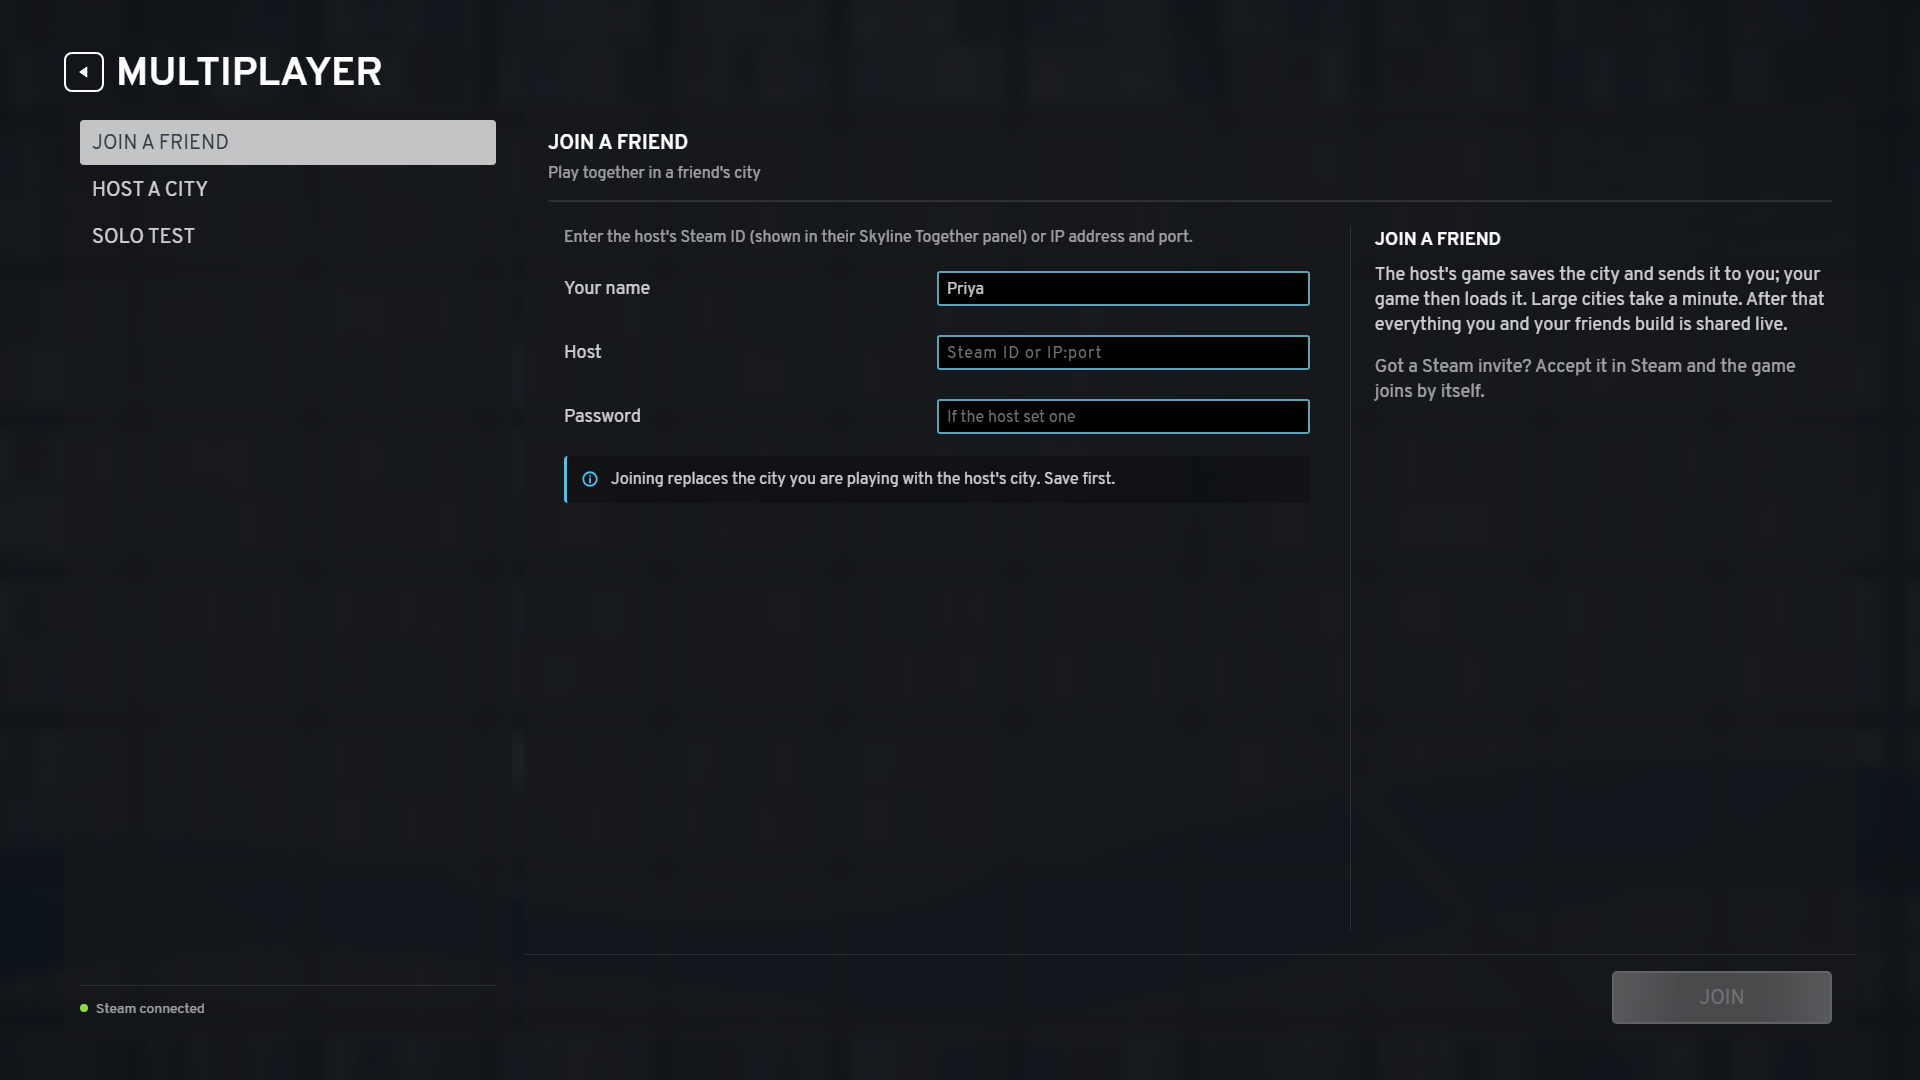
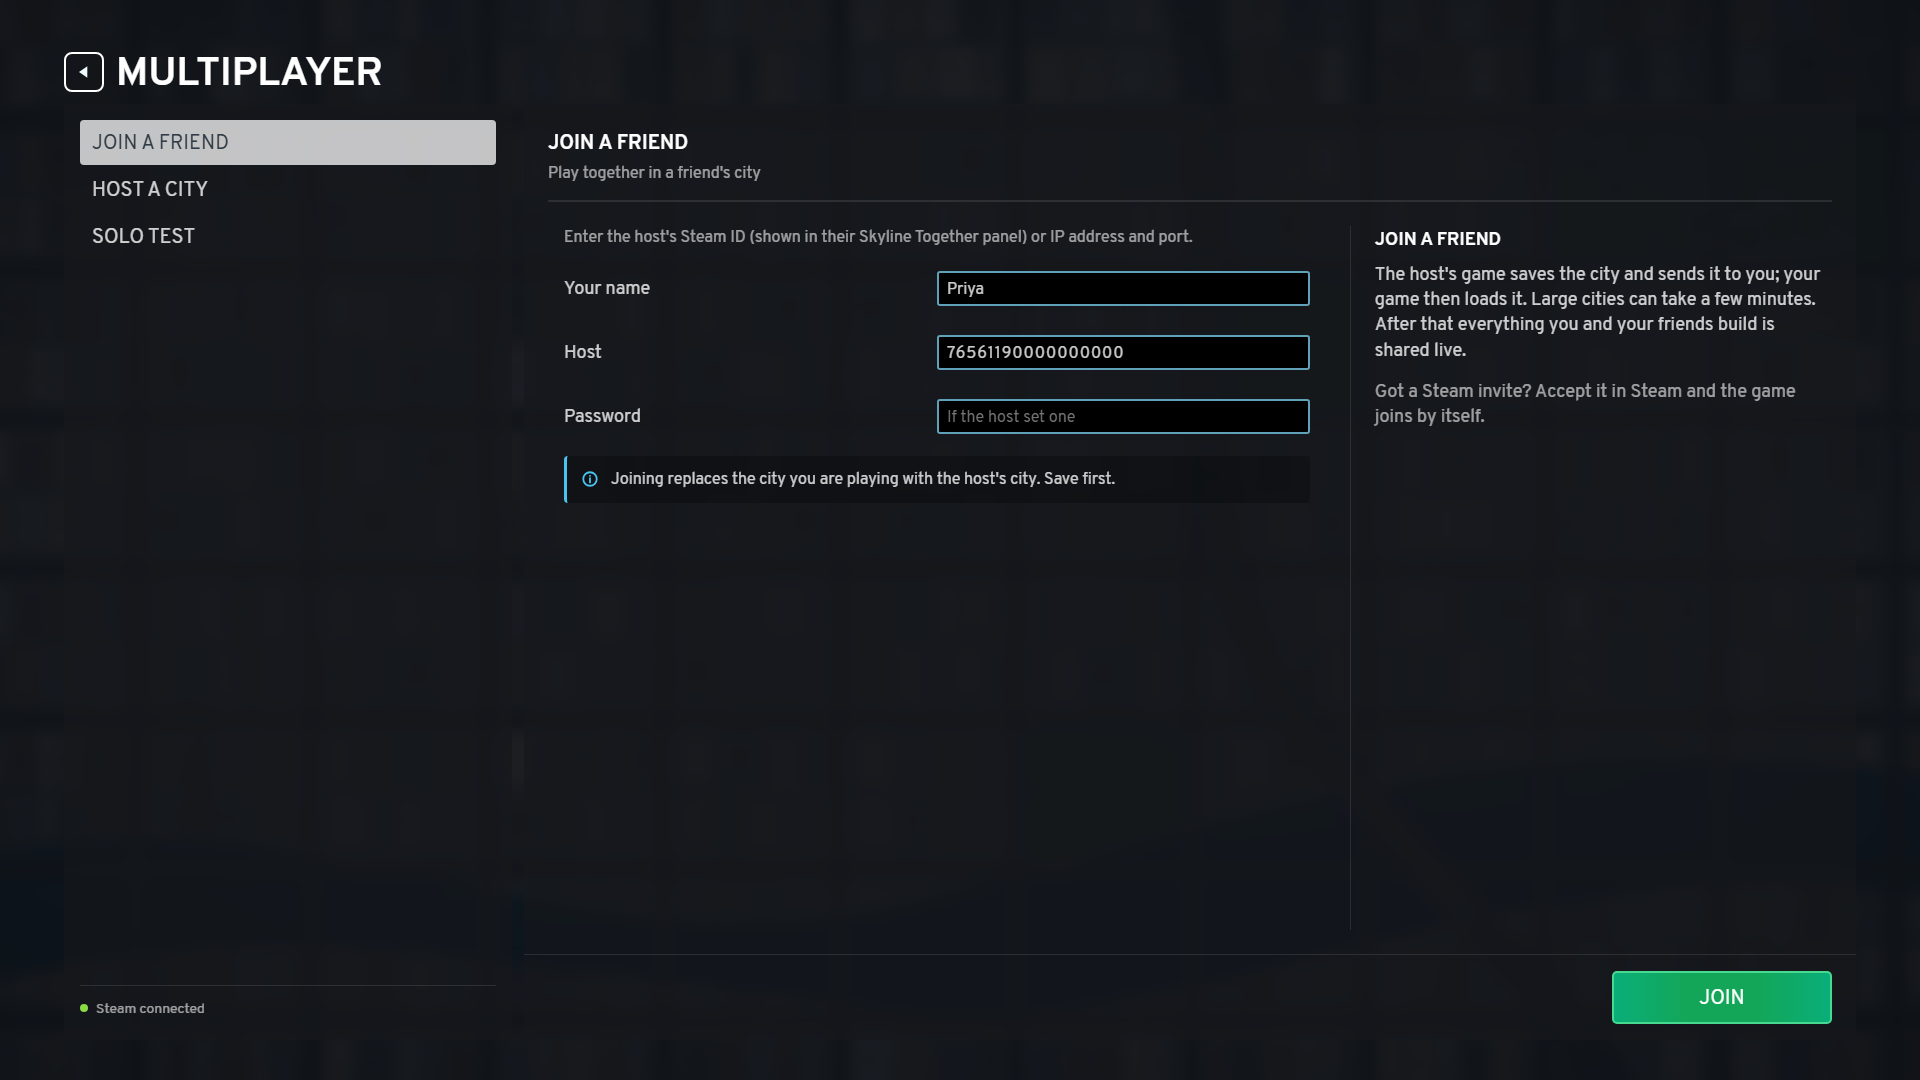
Paradox Mods images: the join page ready to join, no leftover panel, the mods screen
02: the Host field holds the placeholder Steam ID, so "Join" is enabled, and the side text reads "Large
cities can take a few minutes" like the join overlay. 03: the panel behind the join overlay is closed
(ui_smoke.mjs takes a per-state snapshotStore for the HTML snapshots). New 04-mods.png: the screen for
different mods with what to enable, disable and update and "Join anyway" (showcaseMods), since mod
support is a main feature; PublishConfiguration lists it. 01 is unchanged.

Changed region(s): [[0.7188, 0.275, 0.9375, 0.3972], [0.8125, 0.8861, 0.9688, 0.9472], [0.5, 0.3056, 0.5938, 0.3361]]

diff --git a/tools/paradox/make_images.py b/tools/paradox/make_images.py
@@ -28,8 +28,8 @@ sys.path.insert(0, os.path.dirname(os.path.abspath(__file__)))
 import backdrop  # noqa: E402  (tools/paradox/backdrop.py)
 PROPS = os.path.join(ROOT, 'src', 'SkylineTogether', 'Properties')
 
-# (ui_smoke state file, output name, zoom): the host panel with the invite list, the title screen's join page and a join
-# in progress. A zoom above 1 lays the page out in a smaller viewport (1920 / zoom wide) and enlarges it to 1920 x 1080,
+# (ui_smoke state file, output name, zoom): the host panel with the invite list, the title screen's join page, a join
+# in progress and the screen for different mods with "Join anyway". A zoom above 1 lays the page out in a smaller viewport (1920 / zoom wide) and enlarges it to 1920 x 1080,
 # so the panels stay readable in the Paradox Mods gallery.
 # The name tag of the showcase's building player is anchored at (x, y) = (0.599, 0.458) of the frame (ui_smoke.mjs);
 # the backdrop draws that player's road preview up to it.
@@ -37,6 +37,7 @@ SCREENSHOTS = [
     ('showcaseHosting.game.html', '01-hosting.png', 1.38),
     ('showcaseLobby.menu-join.html', '02-join-from-title-screen.png', 1.0),
     ('showcaseJoining.game.html', '03-joining.png', 1.0),
+    ('showcaseMods.game.html', '04-mods.png', 1.0),
 ]
 PREVIEW = (round(0.599 * 1920), round(0.458 * 1080), '#3fb6e8')
 
